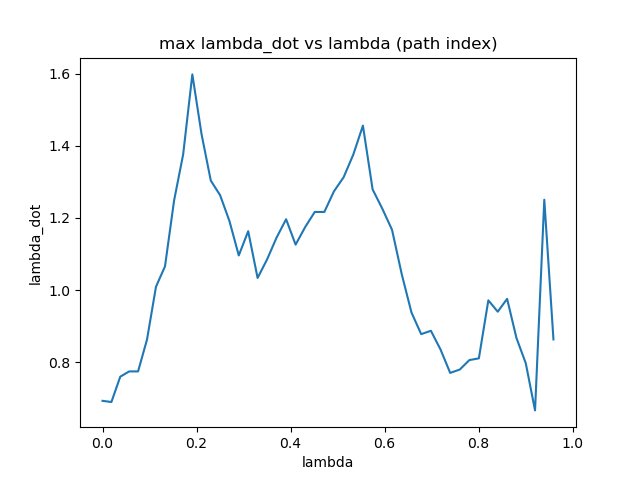
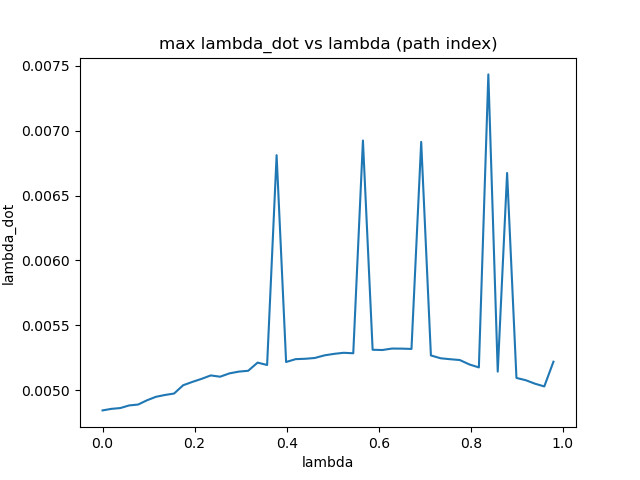
optimization

diff --git a/Jacobian_comparison/single_arm_opt.py b/Jacobian_comparison/single_arm_opt.py
@@ -1,0 +1,81 @@
+import numpy as np
+from pandas import *
+import sys, traceback, time
+from general_robotics_toolbox import *
+import matplotlib.pyplot as plt
+from scipy.optimize import minimize
+
+sys.path.append('../toolbox')
+from robot_def import *
+from lambda_calc import *
+
+def opt_fun(curve_js_steps):
+	global lam, joint_vel_limit
+	dlam=calc_lamdot(curve_js_steps.reshape((-1,6)),lam,joint_vel_limit,1)
+
+	return min(dlam)
+def main():
+	global joint_vel_limit, lam
+	###read actual curve
+	col_names=['q1', 'q2', 'q3','q4', 'q5', 'q6'] 
+	data = read_csv("curve_poses/curve_pose0/Curve_backproj_js0.csv", names=col_names)
+	curve_q1=data['q1'].tolist()
+	curve_q2=data['q2'].tolist()
+	curve_q3=data['q3'].tolist()
+	curve_q4=data['q4'].tolist()
+	curve_q5=data['q5'].tolist()
+	curve_q6=data['q6'].tolist()
+	curve_js=np.vstack((curve_q1, curve_q2, curve_q3,curve_q4,curve_q5,curve_q6)).T
+
+	joint_vel_limit=np.radians([110,90,90,150,120,235])
+
+	###decrease curve density to simplify computation
+	step=1000	
+	curve_js=curve_js[0:-1:step]
+
+	curve_cs_p=[]
+	curve_cs_R=[]
+	###find path length
+	lam=[0]
+	for i in range(len(curve_js)-1):
+		pose_s=fwd(curve_js[i])
+		pose_e=fwd(curve_js[i+1])
+		lam.append(lam[-1]+np.linalg.norm(pose_e.p-pose_s.p))
+		curve_cs_p.append(pose_s.p)
+		curve_cs_R.append(pose_s.R)
+
+		if i==len(curve_js)-2:
+			curve_cs_p.append(pose_e.p)
+			curve_cs_R.append(pose_e.R)
+	###normalize lam
+	lam=np.array(lam)/lam[-1]
+
+	curve_cs_p=np.array(curve_cs_p)
+	curve_cs_R=np.array(curve_cs_R)
+
+	###path constraints, position constraint and curve normal constraint
+	cons = ({'type': 'eq', 'fun': lambda x:  fwd_all(x.reshape((-1,6))).p_all.flatten()-curve_cs_p.flatten()},
+			{'type': 'eq', 'fun': lambda x:  fwd_all(x.reshape((-1,6))).R_all[:,:,-1].flatten()-curve_cs_R[:,:,-1].flatten()})
+	lowerer_limit=np.radians([-220.,-40.,-180.,-300.,-120.,-360.])+0.001*np.ones(6)
+	upper_limit=np.radians([220.,160.,70.,300.,120.,360.])-0.001*np.ones(6)
+	bnds=tuple(zip(lowerer_limit,upper_limit))*len(curve_js)
+
+	res = minimize(opt_fun, np.random.rand(len(curve_js.flatten()))-0.5*np.ones(len(curve_js.flatten())), method='SLSQP',tol=1e-20,bounds=bnds,constraints=cons)
+	###trust-constr not working
+
+	print('originial: ',opt_fun(curve_js),'optimized: ',opt_fun(res.x.reshape((-1,6))))
+
+	print(res.x.reshape((-1,6)))
+	dlam_out=calc_lamdot(res.x.reshape((-1,6)),lam,joint_vel_limit,1)
+
+
+	plt.plot(lam[:-1],dlam_out,label="lambda_dot_max")
+	plt.xlabel("lambda")
+	plt.ylabel("lambda_dot")
+	plt.title("max lambda_dot vs lambda (path index)")
+	plt.savefig("velocity-constraint_js.png")
+	plt.show()
+	
+
+if __name__ == "__main__":
+	main()

diff --git a/toolbox/lambda_calc.py b/toolbox/lambda_calc.py
@@ -1,0 +1,29 @@
+import numpy as np
+from pandas import *
+import sys, traceback
+from general_robotics_toolbox import *
+import matplotlib.pyplot as plt
+from robot_def import *
+
+
+def calc_lamdot(curve_js,lam,joint_vel_limit,step):
+	############find maximum lambda dot vs lambda
+	###curve_js: curve expressed in joint space in radians
+	###lam: discrete lambda (path length), same shape as curve_js, from 0 to 1
+	###joint_vel_limit: joint velocity limit in radians
+	###step: step size used for dense curve
+
+	dlam_max=[]
+
+	for i in range(0,len(lam)-step,step):
+		dq=np.abs(curve_js[i+step]-curve_js[i])
+		dqdlam=dq/(lam[i+step]-lam[i])
+		t=np.max(np.divide(dq,joint_vel_limit))
+
+		qdot_max=dq/t 		###approximated max qdot
+		dlam_max.append(qdot_max[0]/dqdlam[0])
+
+
+
+	return dlam_max
+

diff --git a/toolbox/robot_def.py b/toolbox/robot_def.py
@@ -36,11 +36,24 @@ lowerer_limit=np.radians([-220.,-40.,-180.,-300.,-120.,-360.])
 joint_vel_limit=np.radians([110,90,90,150,120,235])
 ABB_def=Robot(H,P,joint_type,joint_lower_limit = lowerer_limit, joint_upper_limit = upper_limit, joint_vel_limit=joint_vel_limit, R_tool=R_tool,p_tool=p_tool)
 
-
+class Transform_all(object):
+	def __init__(self, p_all, R_all):
+		self.R_all=np.array(R_all)
+		self.p_all=np.array(p_all)
 def jacobian(q):
 	return robotjacobian(ABB_def,q)
 def fwd(q):
 	return fwdkin(ABB_def,q)
+
+def fwd_all(q_all):
+	pose_p_all=[]
+	pose_R_all=[]
+	for q in q_all:
+		pose_temp=fwd(q)
+		pose_p_all.append(pose_temp.p)
+		pose_R_all.append(pose_temp.R)
+
+	return Transform_all(pose_p_all,pose_R_all)
 
 def inv(p,R=np.eye(3)):
 	pose=Transform(R,p)

diff --git a/Jacobian_comparison/js_constraint.py b/Jacobian_comparison/js_constraint.py
@@ -6,7 +6,7 @@ import matplotlib.pyplot as plt
 
 sys.path.append('../toolbox')
 from robot_def import *
-
+from lambda_calc import *
 
 def main():
 	###read actual curve
@@ -36,15 +36,8 @@ def main():
 	lam=np.array(lam)/lam[-1]
 
 	step=1000
-	for i in range(0,len(lam)-step,step):
-		dq=np.abs(curve_js[i+step]-curve_js[i])
-		dqdlam=dq/(lam[i+step]-lam[i])
-		t=np.max(np.divide(dq,joint_vel_limit))
 
-		qdot_max=dq/t 		###approximated max qdot
-		dlam_max.append(qdot_max[0]/dqdlam[0])
-
-
+	dlam_max=calc_lamdot(curve_js,lam,joint_vel_limit,step=1000)
 
 	plt.plot(lam[:-step:step],dlam_max,label="lambda_dot_max")
 	plt.xlabel("lambda")
